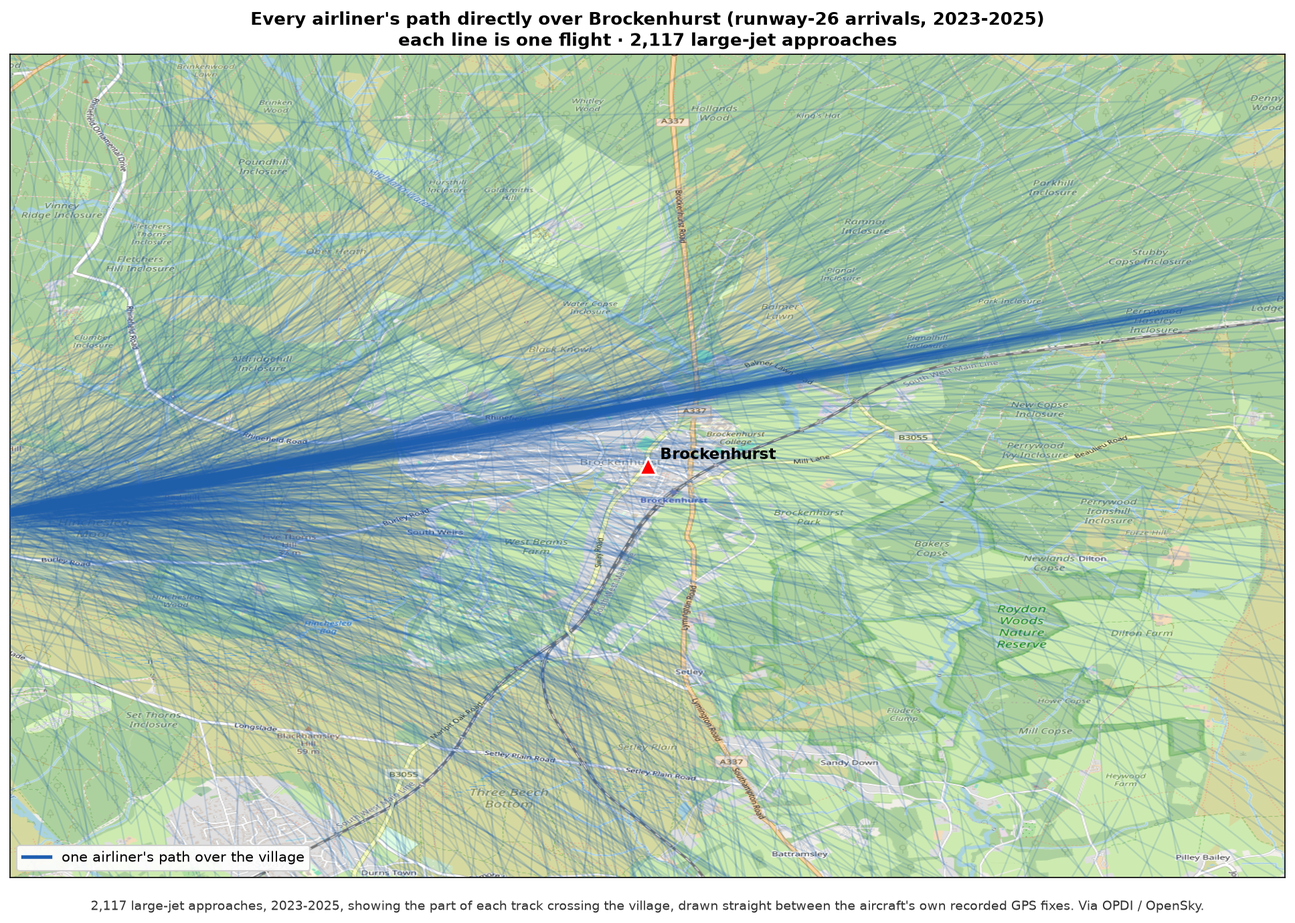
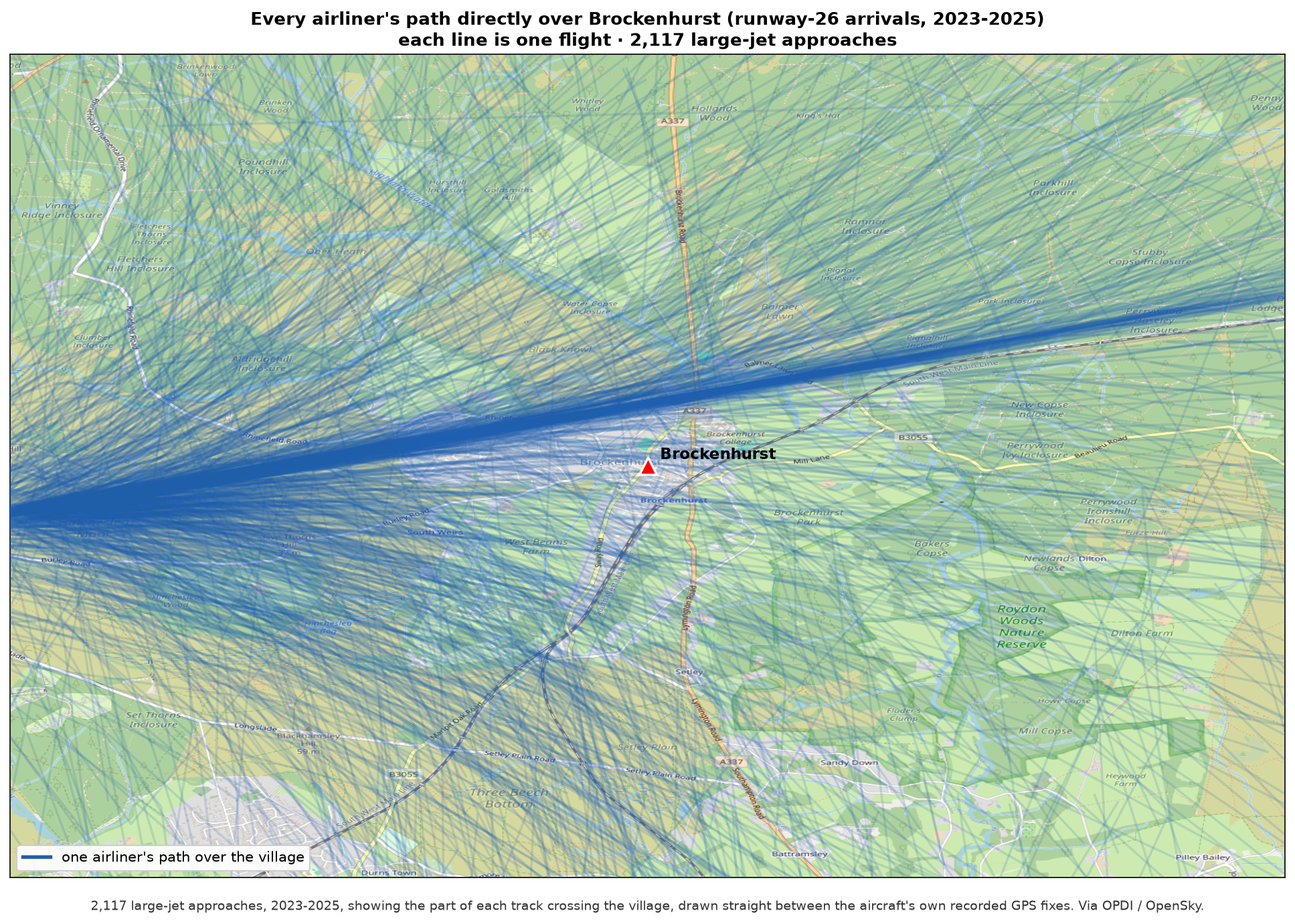
Thicken rope-map lines further; add Europe-wide origins map
- Rope-map line widths bumped again (wide 1.3, village zoom 1.7).
- origins_map.py: where arrivals come from across Europe, joined to the canonical
  arrivals.csv set (11,453 large jets, 6,644 with an identified origin, 90 airports).
  Handles the int64/uint64 id scheme in the 202512 flight list via bit-view.

Claude-Session: https://claude.ai/code/session_01Wg3RMXhKJQE1Gdum3a4bvr

diff --git a/origins_map.py b/origins_map.py
@@ -1,0 +1,125 @@
+#!/usr/bin/env python3
+"""
+The full picture: where Bournemouth's large-jet arrivals come from. Every origin
+airport (2023-2025) joined to Bournemouth, line weight by number of flights, on a
+Europe-wide map.
+
+These lines are origin-to-destination connections (showing where flights start),
+not the exact flown tracks. Counts are from the flight list.
+
+    python origins_map.py  ->  outputs/sweep/origins_map.png
+"""
+from __future__ import annotations
+
+import glob
+
+import contextily as cx
+import matplotlib
+
+matplotlib.use("Agg")
+import matplotlib.pyplot as plt
+import numpy as np
+import pandas as pd
+
+R = 6378137.0
+EGHH = (50.78, -1.84)
+# Airport coordinates (lat, lon) for the origins that appear in the data.
+APT = {
+    "LEPA": (39.55, 2.74, "Palma"), "LEAL": (38.28, -0.56, "Alicante"),
+    "LEMG": (36.67, -4.50, "Malaga"), "LPFR": (37.01, -7.97, "Faro"),
+    "EGDY": (51.00, -2.64, "Yeovilton"), "LMML": (35.86, 14.48, "Malta"),
+    "EPKK": (50.08, 19.78, "Krakow"), "LSGG": (46.24, 6.11, "Geneva"),
+    "EGPH": (55.95, -3.37, "Edinburgh"), "LEGE": (41.90, 2.76, "Girona"),
+    "EGNV": (54.51, -1.43, "Teesside"), "LEMI": (37.80, -1.12, "Murcia"),
+    "LIPZ": (45.51, 12.35, "Venice"), "LGRP": (36.41, 28.09, "Rhodes"),
+    "EPWR": (51.10, 16.89, "Wroclaw"), "EGJJ": (49.21, -2.20, "Jersey"),
+    "EGLF": (51.28, -0.78, "Farnborough"), "EGHQ": (50.44, -5.00, "Newquay"),
+    "EIDW": (53.43, -6.27, "Dublin"), "LHBP": (47.44, 19.26, "Budapest"),
+    "EGJB": (49.43, -2.60, "Guernsey"), "EGSS": (51.89, 0.23, "Stansted"),
+    "EGKB": (51.33, 0.03, "Biggin Hill"), "EGGW": (51.87, -0.37, "Luton"),
+    "LEIB": (38.87, 1.37, "Ibiza"), "LFMN": (43.66, 7.22, "Nice"),
+    "LEBL": (41.30, 2.08, "Barcelona"), "GCTS": (28.04, -16.57, "Tenerife"),
+    "LICJ": (38.18, 13.10, "Palermo"), "LGKR": (39.60, 19.91, "Corfu"),
+    "EHAM": (52.31, 4.76, "Amsterdam"), "LFPB": (48.97, 2.44, "Paris"),
+    "EGHH": (50.78, -1.84, "Bournemouth"),
+}
+LABEL_MIN = 90   # only label origins with at least this many flights
+
+
+def merc(lon, lat):
+    return R * np.radians(lon), R * np.log(np.tan(np.pi / 4 + np.radians(lat) / 2))
+
+
+def counts():
+    """Origins for the SAME canonical large-jet arrival set the rest of the pack
+    uses (arrivals.csv), joined to the flight list for the departure airport."""
+    arr = pd.read_csv("outputs/sweep/arrivals.csv"); arr["flight_id"] = arr["id"].astype("uint64")
+    arr["year"] = pd.to_datetime(arr["dof"]).dt.year
+    lj = arr[(arr["category"] == "Large jet") & (arr["year"].isin([2023, 2024, 2025]))]
+    rows = []
+    for f in (glob.glob("data/flight_list_2023*.parquet") + glob.glob("data/flight_list_2024*.parquet")
+              + glob.glob("data/flight_list_2025*.parquet")):
+        d = pd.read_parquet(f, columns=["id", "adep", "ades"])
+        d = d[d["ades"] == "EGHH"].copy()
+        ids = d["id"].to_numpy()
+        d["id"] = ids.view("uint64") if ids.dtype == "int64" else ids.astype("uint64")
+        rows.append(d[["id", "adep"]])
+    fl = pd.concat(rows, ignore_index=True)
+    m = lj.merge(fl[["id", "adep"]].drop_duplicates("id"), left_on="flight_id",
+                 right_on="id", how="left")
+    return m["adep"].value_counts(), len(lj), int(m["adep"].notna().sum())
+
+
+def build(out="outputs/sweep/origins_map.png"):
+    vc, canonical_total, with_origin = counts()
+    known = {k: v for k, v in vc.items() if k in APT and k != "EGHH"}
+    shown = sum(known.values())
+    ex, ey = merc(*EGHH[::-1])
+
+    fig, ax = plt.subplots(figsize=(14, 12))
+    lons = [APT[k][1] for k in known] + [EGHH[1]]
+    lats = [APT[k][0] for k in known] + [EGHH[0]]
+    xs, ys = merc(np.array(lons), np.array(lats))
+    pad = 5.5e5
+    ax.set_xlim(xs.min() - pad, xs.max() + pad)
+    ax.set_ylim(ys.min() - pad * 0.55, ys.max() + pad * 1.4)
+
+    mx = max(known.values())
+    for k, n in sorted(known.items(), key=lambda kv: kv[1]):
+        la, lo, name = APT[k]
+        ox, oy = merc(lo, la)
+        lw = 0.6 + 4.4 * (n / mx)
+        ax.plot([ox, ex], [oy, ey], color="#2c6fbb", lw=lw, alpha=0.30 + 0.5 * (n / mx),
+                solid_capstyle="round", zorder=3)
+        ax.scatter([ox], [oy], s=18 + 120 * (n / mx), color="#1a4f8a", edgecolors="white",
+                   linewidths=0.6, zorder=4)
+        if n >= LABEL_MIN:
+            ax.annotate(f"{name} ({n:,})", (ox, oy), textcoords="offset points",
+                        xytext=(5, 4), fontsize=8.5, color="#12233b", fontweight="bold", zorder=6)
+    ax.scatter([ex], [ey], marker="*", s=460, color="#c0392b", edgecolors="white",
+               linewidths=1.4, zorder=7)
+    ax.annotate("BOURNEMOUTH", (ex, ey), textcoords="offset points", xytext=(8, 8),
+                fontsize=11, color="#c0392b", fontweight="bold", zorder=7)
+
+    cx.add_basemap(ax, source=cx.providers.CartoDB.Positron, zoom=5, attribution=False, zorder=1)
+    ax.set_xticks([]); ax.set_yticks([])
+    ax.set_title("Where Bournemouth's arrivals come from, the full picture\n"
+                 f"{with_origin:,} large-jet arrivals with an identified origin (2023-2025), "
+                 f"from {vc.size} airports across Europe (the busiest labelled)",
+                 fontsize=14, fontweight="bold")
+    fig.text(0.5, 0.045,
+             "Each line joins an origin airport to Bournemouth; thicker = more flights. These show where flights "
+             "start (holiday and charter routes across Spain, Portugal, Malta, Greece, the Alps and beyond), not the "
+             "exact flown tracks. Every one of them arrives over Brockenhurst.\n"
+             f"Of our {canonical_total:,} large-jet arrivals, {with_origin:,} had an origin airport recorded in the "
+             "data; the rest were first picked up already in flight. Via OPDI / OpenSky.",
+             ha="center", va="bottom", fontsize=9.5, color="#333")
+    fig.tight_layout(rect=[0, 0.085, 1, 1])
+    fig.savefig(out, dpi=140, bbox_inches="tight")
+    plt.close(fig)
+    print(f"wrote {out} | canonical={canonical_total} with_origin={with_origin} airports={vc.size} mapped={len(known)} ({shown} flights)")
+    return out
+
+
+if __name__ == "__main__":
+    build()

diff --git a/path_map.py b/path_map.py
@@ -121,7 +121,7 @@ def _draw(ax, a, from_se, box, zoom, lw, alpha_st, alpha_se, smooth_on=True,
 def build(out="outputs/sweep/brockenhurst_paths.png"):
     a, from_se = load()
     fig, ax = plt.subplots(figsize=(13, 8.8))
-    n_st, n_se = _draw(ax, a, from_se, (LON0, LON1, LAT0, LAT1), 12, 0.9, 0.06, 0.06, mono=True)
+    n_st, n_se = _draw(ax, a, from_se, (LON0, LON1, LAT0, LAT1), 12, 1.3, 0.06, 0.06, mono=True)
     tx, ty = merc(TLON, TLAT)
     ax.scatter([tx], [ty], marker="*", s=240, color="#111", edgecolors="white",
                linewidths=1.1, zorder=7)
@@ -151,7 +151,7 @@ def build_zoom(out="outputs/sweep/brockenhurst_paths_village.png"):
     a, from_se = load()
     box = (BLON - VHL, BLON + VHL, BLAT - VHT, BLAT + VHT)
     fig, ax = plt.subplots(figsize=(13, 9.2))
-    n_st, n_se = _draw(ax, a, from_se, box, 14, 1.2, 0.16, 0.16, smooth_on=False,
+    n_st, n_se = _draw(ax, a, from_se, box, 14, 1.7, 0.16, 0.16, smooth_on=False,
                        min_pts=2, clip_margin=0.02, mono=True)
     tot = n_se + n_st
     ax.set_title("Every airliner's path directly over Brockenhurst (runway-26 arrivals, 2023-2025)\n"
